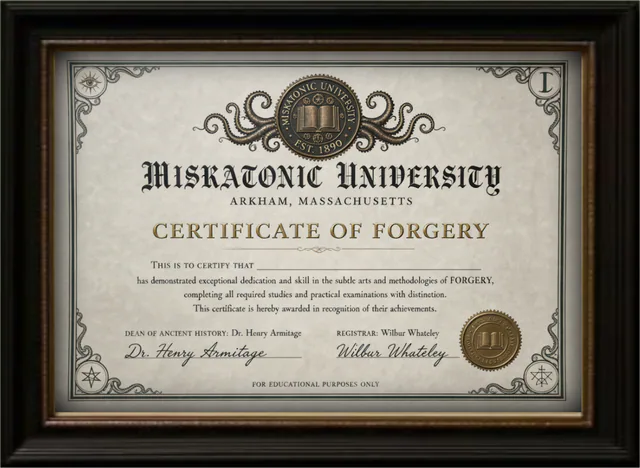
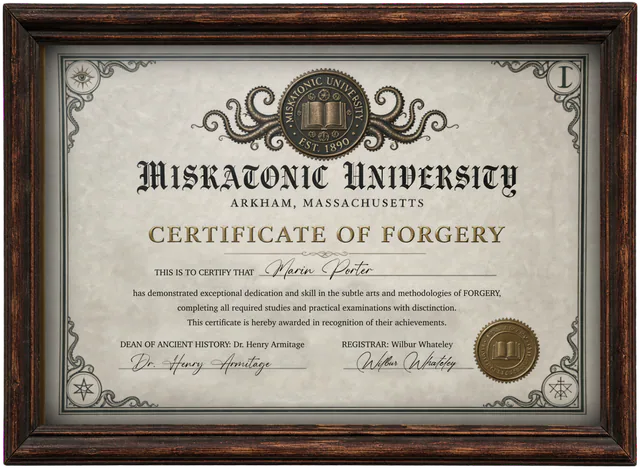
uprava sirky stranky, uprava pozadi, Proot on Paper update grafiky i popisku

diff --git a/docs/e/certificat-of-forgery/index.html b/docs/e/certificat-of-forgery/index.html
@@ -3,21 +3,23 @@
 <head>
 <meta charset="utf-8">
 <meta name="viewport" content="width=device-width, initial-scale=1">
-<title>Certificat of forgery · Cabinet of Curiosities</title>
+<title>Proof on Paper · Cabinet of Curiosities</title>
 <base href="../../">
 <meta name="robots" content="noindex, nofollow">
 <meta property="og:type" content="website">
-<meta property="og:title" content="Certificat of forgery · Cabinet of Curiosities">
-<meta property="og:description" content="Miskatonic University is a fictional university located in Arkham, near the banks of the (fictional) Miskatonic River. Lovecraft concocted the word Miskatonic as a mixture of root words from the Algonquian languages,[10][11] the source of many place-names throughout New England. Anthony Pearsall believes the name is based on the Housatonic River,[12] which flows from the Berkshires of Western Massachusetts and western Connecticut to Long Island Sound. Lovecraft first mentioned the Miskatonic River in his 1920 story &quot;The Picture in the House&quot;.">
-<meta name="description" content="Miskatonic University is a fictional university located in Arkham, near the banks of the (fictional) Miskatonic River. Lovecraft concocted the word Miskatonic as a mixture of root words from the Algonquian languages,[10][11] the source of many place-names throughout New England. Anthony Pearsall believes the name is based on the Housatonic River,[12] which flows from the Berkshires of Western Massachusetts and western Connecticut to Long Island Sound. Lovecraft first mentioned the Miskatonic River in his 1920 story &quot;The Picture in the House&quot;.">
+<meta property="og:title" content="Proof on Paper · Cabinet of Curiosities">
+<meta property="og:description" content="This distinguished university diploma belongs to an alumnus of Miskatonic University who also happens to be the proud owner of the entire private collection on display. Considering the sheer weirdness of everything else in the room, his academic background suddenly makes a lot of sense.
+Being an alumnus of such a peculiar institution comes with a very specific kind of expertise that is best kept off your standard resume. Still, the owner displays this document with unmistakable pride, treating it like the highest possible honor for fooling history, collectors, and plain common sense all at once. Just take a closer look at what he actually majored in.">
+<meta name="description" content="This distinguished university diploma belongs to an alumnus of Miskatonic University who also happens to be the proud owner of the entire private collection on display. Considering the sheer weirdness of everything else in the room, his academic background suddenly makes a lot of sense.
+Being an alumnus of such a peculiar institution comes with a very specific kind of expertise that is best kept off your standard resume. Still, the owner displays this document with unmistakable pride, treating it like the highest possible honor for fooling history, collectors, and plain common sense all at once. Just take a closer look at what he actually majored in.">
 <meta property="og:url" content="https://cabinet.martinposta.com/e/certificat-of-forgery/">
 <link rel="canonical" href="https://cabinet.martinposta.com/e/certificat-of-forgery/">
-<meta property="og:image" content="https://cabinet.martinposta.com/media/6626420bc9e3/og.jpg?v=2">
+<meta property="og:image" content="https://cabinet.martinposta.com/media/6626420bc9e3/og.jpg?v=3">
 <meta property="og:image:width" content="1200">
-<meta property="og:image:height" content="877">
+<meta property="og:image:height" content="879">
 <meta name="twitter:card" content="summary_large_image">
 <link rel="icon" href="favicon.svg" type="image/svg+xml">
-<link rel="stylesheet" href="css/cabinet.css?v=40bc46db73">
+<link rel="stylesheet" href="css/cabinet.css?v=dc863eab44">
 </head>
 <body>
 <noscript><p class="noscript">The cabinet needs JavaScript to open. <a href="list/">See the list of exhibits</a> instead.</p></noscript>
@@ -55,7 +57,7 @@
   </div>
 </div>
 
-<script type="module" src="js/main.js?v=40bc46db73"></script>
+<script type="module" src="js/main.js?v=dc863eab44"></script>
 
 </body>
 </html>

diff --git a/docs/list/index.html b/docs/list/index.html
@@ -17,7 +17,7 @@
 <meta property="og:image:height" content="1200">
 <meta name="twitter:card" content="summary_large_image">
 <link rel="icon" href="favicon.svg" type="image/svg+xml">
-<link rel="stylesheet" href="css/list.css?v=40bc46db73">
+<link rel="stylesheet" href="css/list.css?v=dc863eab44">
 </head>
 <body>
 <header>
@@ -27,12 +27,12 @@
 </header>
 <main>
 <article class="ex" id="certificat-of-forgery">
-  <a href="e/certificat-of-forgery/" tabindex="-1" aria-hidden="true"><img src="media/6626420bc9e3/640.webp?v=2" alt="" loading="lazy" width="180" height="135"></a>
+  <a href="e/certificat-of-forgery/" tabindex="-1" aria-hidden="true"><img src="media/6626420bc9e3/640.webp?v=3" alt="" loading="lazy" width="180" height="135"></a>
   <div>
     <div class="inv">inv. no. 001</div>
-    <h2><a href="e/certificat-of-forgery/">Certificat of forgery</a></h2>
+    <h2><a href="e/certificat-of-forgery/">Proof on Paper</a></h2>
     
-    <p>Miskatonic University is a fictional university located in Arkham, near the banks of the (fictional) Miskatonic River. Lovecraft concocted the word Miskatonic as a mixture of root words from the Algonquian languages,[10][11] the source of many place-names throughout New England. Anthony Pearsall believes the name is based on the Housatonic River,[12] which flows from the Berkshires of Western Massachusetts and western Connecticut to Long Island Sound. Lovecraft first mentioned the Miskatonic River in his 1920 story &quot;The Picture in the House&quot;.</p>
+    <p>This distinguished university diploma belongs to an alumnus of Miskatonic University who also happens to be the proud owner of the entire private collection on display. Considering the sheer weirdness of everything else in the room, his academic background suddenly makes a lot of sense.</p><p>Being an alumnus of such a peculiar institution comes with a very specific kind of expertise that is best kept off your standard resume. Still, the owner displays this document with unmistakable pride, treating it like the highest possible honor for fooling history, collectors, and plain common sense all at once. Just take a closer look at what he actually majored in.</p>
     
   </div>
 </article>

diff --git a/docs/e/dscf2765/index.html b/docs/e/dscf2765/index.html
@@ -21,7 +21,7 @@ The real puzzle, however, isn&#39;t the unknown language, but the fact that the 
 <meta property="og:image:height" content="1200">
 <meta name="twitter:card" content="summary_large_image">
 <link rel="icon" href="favicon.svg" type="image/svg+xml">
-<link rel="stylesheet" href="css/cabinet.css?v=40bc46db73">
+<link rel="stylesheet" href="css/cabinet.css?v=dc863eab44">
 </head>
 <body>
 <noscript><p class="noscript">The cabinet needs JavaScript to open. <a href="list/">See the list of exhibits</a> instead.</p></noscript>
@@ -59,7 +59,7 @@ The real puzzle, however, isn&#39;t the unknown language, but the fact that the 
   </div>
 </div>
 
-<script type="module" src="js/main.js?v=40bc46db73"></script>
+<script type="module" src="js/main.js?v=dc863eab44"></script>
 
 </body>
 </html>

diff --git a/docs/e/dscf2803/index.html b/docs/e/dscf2803/index.html
@@ -21,7 +21,7 @@ The only certainty is that the piece has a rather peculiar effect on anyone who 
 <meta property="og:image:height" content="1200">
 <meta name="twitter:card" content="summary_large_image">
 <link rel="icon" href="favicon.svg" type="image/svg+xml">
-<link rel="stylesheet" href="css/cabinet.css?v=40bc46db73">
+<link rel="stylesheet" href="css/cabinet.css?v=dc863eab44">
 </head>
 <body>
 <noscript><p class="noscript">The cabinet needs JavaScript to open. <a href="list/">See the list of exhibits</a> instead.</p></noscript>
@@ -59,7 +59,7 @@ The only certainty is that the piece has a rather peculiar effect on anyone who 
   </div>
 </div>
 
-<script type="module" src="js/main.js?v=40bc46db73"></script>
+<script type="module" src="js/main.js?v=dc863eab44"></script>
 
 </body>
 </html>

diff --git a/docs/e/dscf2838/index.html b/docs/e/dscf2838/index.html
@@ -21,7 +21,7 @@ The find of the century sparked an instant global sensation, though as is often 
 <meta property="og:image:height" content="1200">
 <meta name="twitter:card" content="summary_large_image">
 <link rel="icon" href="favicon.svg" type="image/svg+xml">
-<link rel="stylesheet" href="css/cabinet.css?v=40bc46db73">
+<link rel="stylesheet" href="css/cabinet.css?v=dc863eab44">
 </head>
 <body>
 <noscript><p class="noscript">The cabinet needs JavaScript to open. <a href="list/">See the list of exhibits</a> instead.</p></noscript>
@@ -59,7 +59,7 @@ The find of the century sparked an instant global sensation, though as is often 
   </div>
 </div>
 
-<script type="module" src="js/main.js?v=40bc46db73"></script>
+<script type="module" src="js/main.js?v=dc863eab44"></script>
 
 </body>
 </html>

diff --git a/docs/e/dscf2869/index.html b/docs/e/dscf2869/index.html
@@ -21,7 +21,7 @@ Mysteriously lost for centuries, the head resurfaced a few years ago and was pro
 <meta property="og:image:height" content="1200">
 <meta name="twitter:card" content="summary_large_image">
 <link rel="icon" href="favicon.svg" type="image/svg+xml">
-<link rel="stylesheet" href="css/cabinet.css?v=40bc46db73">
+<link rel="stylesheet" href="css/cabinet.css?v=dc863eab44">
 </head>
 <body>
 <noscript><p class="noscript">The cabinet needs JavaScript to open. <a href="list/">See the list of exhibits</a> instead.</p></noscript>
@@ -59,7 +59,7 @@ Mysteriously lost for centuries, the head resurfaced a few years ago and was pro
   </div>
 </div>
 
-<script type="module" src="js/main.js?v=40bc46db73"></script>
+<script type="module" src="js/main.js?v=dc863eab44"></script>
 
 </body>
 </html>

diff --git a/docs/e/mapa-amerika/index.html b/docs/e/mapa-amerika/index.html
@@ -21,7 +21,7 @@ When the surviving one-third was finally rediscovered in 1929 at Istanbul&#39;s 
 <meta property="og:image:height" content="1164">
 <meta name="twitter:card" content="summary_large_image">
 <link rel="icon" href="favicon.svg" type="image/svg+xml">
-<link rel="stylesheet" href="css/cabinet.css?v=40bc46db73">
+<link rel="stylesheet" href="css/cabinet.css?v=dc863eab44">
 </head>
 <body>
 <noscript><p class="noscript">The cabinet needs JavaScript to open. <a href="list/">See the list of exhibits</a> instead.</p></noscript>
@@ -59,7 +59,7 @@ When the surviving one-third was finally rediscovered in 1929 at Istanbul&#39;s 
   </div>
 </div>
 
-<script type="module" src="js/main.js?v=40bc46db73"></script>
+<script type="module" src="js/main.js?v=dc863eab44"></script>
 
 </body>
 </html>

diff --git a/docs/e/dscf2756/index.html b/docs/e/dscf2756/index.html
@@ -19,7 +19,7 @@ To top it all off, one of his eyes miraculously turned into something resembling
 <meta property="og:image:height" content="908">
 <meta name="twitter:card" content="summary_large_image">
 <link rel="icon" href="favicon.svg" type="image/svg+xml">
-<link rel="stylesheet" href="css/cabinet.css?v=40bc46db73">
+<link rel="stylesheet" href="css/cabinet.css?v=dc863eab44">
 </head>
 <body>
 <noscript><p class="noscript">The cabinet needs JavaScript to open. <a href="list/">See the list of exhibits</a> instead.</p></noscript>
@@ -57,7 +57,7 @@ To top it all off, one of his eyes miraculously turned into something resembling
   </div>
 </div>
 
-<script type="module" src="js/main.js?v=40bc46db73"></script>
+<script type="module" src="js/main.js?v=dc863eab44"></script>
 
 </body>
 </html>

diff --git a/docs/e/dscf2810/index.html b/docs/e/dscf2810/index.html
@@ -19,7 +19,7 @@ Instead of a boring diplomatic gift, however, the Dutch monarch got a hefty serv
 <meta property="og:image:height" content="771">
 <meta name="twitter:card" content="summary_large_image">
 <link rel="icon" href="favicon.svg" type="image/svg+xml">
-<link rel="stylesheet" href="css/cabinet.css?v=40bc46db73">
+<link rel="stylesheet" href="css/cabinet.css?v=dc863eab44">
 </head>
 <body>
 <noscript><p class="noscript">The cabinet needs JavaScript to open. <a href="list/">See the list of exhibits</a> instead.</p></noscript>
@@ -57,7 +57,7 @@ Instead of a boring diplomatic gift, however, the Dutch monarch got a hefty serv
   </div>
 </div>
 
-<script type="module" src="js/main.js?v=40bc46db73"></script>
+<script type="module" src="js/main.js?v=dc863eab44"></script>
 
 </body>
 </html>

diff --git a/docs/e/dscf2813/index.html b/docs/e/dscf2813/index.html
@@ -19,7 +19,7 @@ The displayed piece is not just a replica. It is an authentic prop from the prod
 <meta property="og:image:height" content="828">
 <meta name="twitter:card" content="summary_large_image">
 <link rel="icon" href="favicon.svg" type="image/svg+xml">
-<link rel="stylesheet" href="css/cabinet.css?v=40bc46db73">
+<link rel="stylesheet" href="css/cabinet.css?v=dc863eab44">
 </head>
 <body>
 <noscript><p class="noscript">The cabinet needs JavaScript to open. <a href="list/">See the list of exhibits</a> instead.</p></noscript>
@@ -57,7 +57,7 @@ The displayed piece is not just a replica. It is an authentic prop from the prod
   </div>
 </div>
 
-<script type="module" src="js/main.js?v=40bc46db73"></script>
+<script type="module" src="js/main.js?v=dc863eab44"></script>
 
 </body>
 </html>

diff --git a/docs/e/dscf2844/index.html b/docs/e/dscf2844/index.html
@@ -19,7 +19,7 @@ Right: A widely shared, internet-famous ink drawing that is actually a remarkabl
 <meta property="og:image:height" content="890">
 <meta name="twitter:card" content="summary_large_image">
 <link rel="icon" href="favicon.svg" type="image/svg+xml">
-<link rel="stylesheet" href="css/cabinet.css?v=40bc46db73">
+<link rel="stylesheet" href="css/cabinet.css?v=dc863eab44">
 </head>
 <body>
 <noscript><p class="noscript">The cabinet needs JavaScript to open. <a href="list/">See the list of exhibits</a> instead.</p></noscript>
@@ -57,7 +57,7 @@ Right: A widely shared, internet-famous ink drawing that is actually a remarkabl
   </div>
 </div>
 
-<script type="module" src="js/main.js?v=40bc46db73"></script>
+<script type="module" src="js/main.js?v=dc863eab44"></script>
 
 </body>
 </html>

diff --git a/docs/e/mapa-sveta/index.html b/docs/e/mapa-sveta/index.html
@@ -21,7 +21,7 @@ We actually have this family business to thank for the brilliant idea of colorin
 <meta property="og:image:height" content="970">
 <meta name="twitter:card" content="summary_large_image">
 <link rel="icon" href="favicon.svg" type="image/svg+xml">
-<link rel="stylesheet" href="css/cabinet.css?v=40bc46db73">
+<link rel="stylesheet" href="css/cabinet.css?v=dc863eab44">
 </head>
 <body>
 <noscript><p class="noscript">The cabinet needs JavaScript to open. <a href="list/">See the list of exhibits</a> instead.</p></noscript>
@@ -59,7 +59,7 @@ We actually have this family business to thank for the brilliant idea of colorin
   </div>
 </div>
 
-<script type="module" src="js/main.js?v=40bc46db73"></script>
+<script type="module" src="js/main.js?v=dc863eab44"></script>
 
 </body>
 </html>
